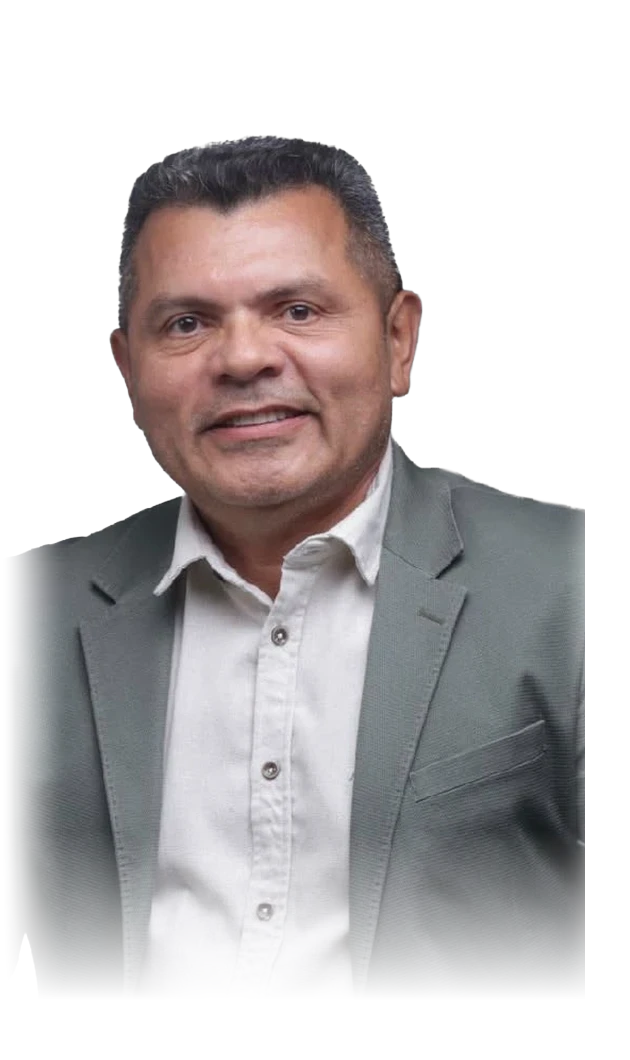
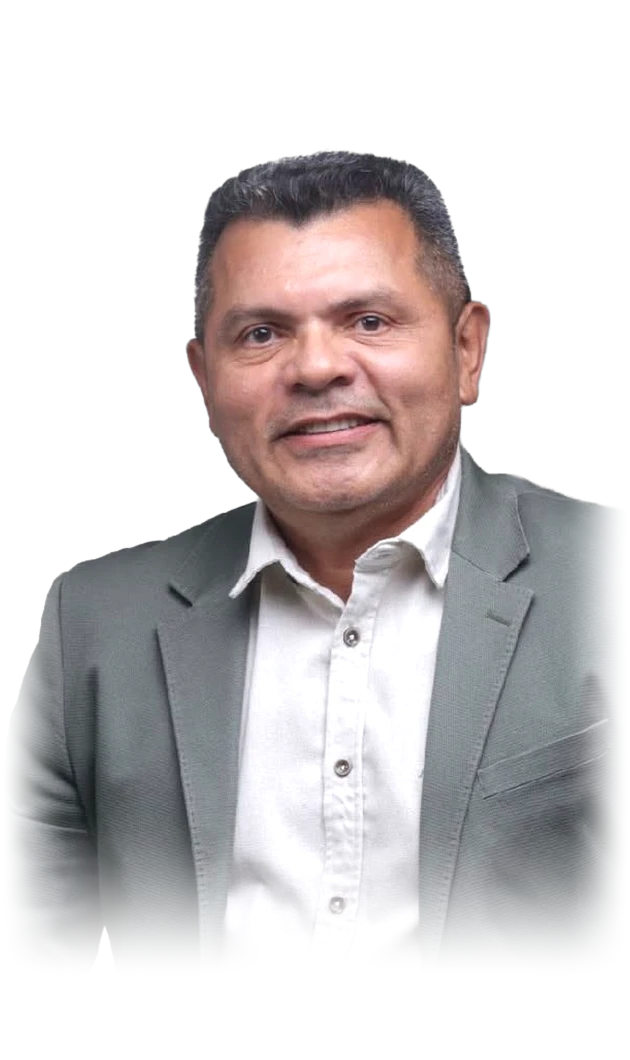
Legislativo em Foco: 3 fotos normalizadas (olhos na mesma linha, mesmo tamanho de cabeça, mesma base e brilho)
Claude-Session: https://claude.ai/code/session_01KiaatM9QFDA4eAkTbwp9BY

diff --git a/legislativo-em-foco/index.html b/legislativo-em-foco/index.html
@@ -114,7 +114,7 @@
 <body><div class="grao" aria-hidden="true"></div>
 <header class="topo"><div class="wrap"><a class="marca" href="/" aria-label="Curso de Processo Legislativo, início"><img src="/assets/simbolo.svg" alt="" width="46" height="46"><span><b>Processo <span class="it">Legislativo</span></b><small>Curso · Câmara municipal</small></span></a><nav aria-label="Seções"><a href="#programacao">Programação</a><a href="#palestrantes">Palestrantes</a><a href="#investimento">Investimento</a><a href="#duvidas">Dúvidas</a></nav><a class="btn btn-cr" href="#investimento">Inscrever-me</a></div></header>
 <main>
-<section class="ev-hero" aria-labelledby="h1"><div class="trio" aria-hidden="true"><img src="/assets/rafael.webp" alt=""><img src="/assets/tiago.webp" alt=""><img src="/assets/jorge.webp" alt=""></div><div class="wrap" style="position:relative">
+<section class="ev-hero" aria-labelledby="h1"><div class="trio" aria-hidden="true"><img src="/assets/rafael.webp?v=2" alt=""><img src="/assets/tiago.webp?v=2" alt=""><img src="/assets/jorge.webp?v=2" alt=""></div><div class="wrap" style="position:relative">
  <div class="rot rev">1º Encontro Estadual de Gestão, Controle e Atuação Parlamentar</div>
  <h1 id="h1" class="t rev">Legislativo <span class="it">em foco.</span></h1>
  <p class="ev-sub rev">Conhecimento prático para fortalecer o Legislativo Municipal. <b>On-line e ao vivo, das 18h30 às 21h30.</b></p>
@@ -145,9 +145,9 @@
  <div class="rot rev">Palestrantes</div>
  <h2 class="t rev" style="font-size:clamp(34px,4.4vw,60px)">Quem ensina atua no <span class="it">controle e no plenário.</span></h2>
  <div class="pal-g">
-  <article class="pal rev"><div class="ft"><img src="/assets/rafael.webp" alt="Rafael Veras" width="630" height="1060"></div><h3>Rafael Veras</h3><p>Advogado, especialista em Direito Público, Processo Legislativo e Direito Parlamentar e Direito Eleitoral, e mestrando pela UNIMAR. Presidente da Comissão de Direito Parlamentar e Processo Legislativo da OAB/MA. Atua há mais de 14 anos na assessoria jurídica de prefeituras, câmaras, deputados e vereadores.</p></article>
-  <article class="pal rev"><div class="ft"><img src="/assets/tiago.webp" alt="Thiago Azevedo" width="630" height="1060"></div><h3>Thiago Azevedo</h3><p>Advogado e administrador. Vice-presidente da Comissão de Direito Parlamentar e Processo Legislativo da OAB/MA. Foi Secretário Municipal de Desenvolvimento Social de Paço do Lumiar e assessor parlamentar na Assembleia Legislativa do Maranhão.</p></article>
-  <article class="pal rev"><div class="ft"><img src="/assets/jorge.webp" alt="Jorge Lobo" width="630" height="1060"></div><h3>Jorge Lobo</h3><p>Jorge Lobo é Auditor de Controle Externo do TCEMA, é membro do Grupo de Trabalho Nacional de Controle Externo da Reforma Tributária (GT-IBS), Mestre em Direito e Doutorando em Direito pela Universidade de Marília/SP, é autor do Livro Análise Econômica dos Crimes em Licitações; autor de diversos artigos em revistas especializadas notadamente em Direito Ambiental, Direito Administrativo, Direito Tributário.</p></article>
+  <article class="pal rev"><div class="ft"><img src="/assets/rafael.webp?v=2" alt="Rafael Veras" width="630" height="1060"></div><h3>Rafael Veras</h3><p>Advogado, especialista em Direito Público, Processo Legislativo e Direito Parlamentar e Direito Eleitoral, e mestrando pela UNIMAR. Presidente da Comissão de Direito Parlamentar e Processo Legislativo da OAB/MA. Atua há mais de 14 anos na assessoria jurídica de prefeituras, câmaras, deputados e vereadores.</p></article>
+  <article class="pal rev"><div class="ft"><img src="/assets/tiago.webp?v=2" alt="Thiago Azevedo" width="630" height="1060"></div><h3>Thiago Azevedo</h3><p>Advogado e administrador. Vice-presidente da Comissão de Direito Parlamentar e Processo Legislativo da OAB/MA. Foi Secretário Municipal de Desenvolvimento Social de Paço do Lumiar e assessor parlamentar na Assembleia Legislativa do Maranhão.</p></article>
+  <article class="pal rev"><div class="ft"><img src="/assets/jorge.webp?v=2" alt="Jorge Lobo" width="630" height="1060"></div><h3>Jorge Lobo</h3><p>Jorge Lobo é Auditor de Controle Externo do TCEMA, é membro do Grupo de Trabalho Nacional de Controle Externo da Reforma Tributária (GT-IBS), Mestre em Direito e Doutorando em Direito pela Universidade de Marília/SP, é autor do Livro Análise Econômica dos Crimes em Licitações; autor de diversos artigos em revistas especializadas notadamente em Direito Ambiental, Direito Administrativo, Direito Tributário.</p></article>
  </div>
  <div class="pal-bios">
   <details><summary>Rafael Veras</summary><p>Advogado, especialista em Direito Público, Processo Legislativo e Direito Parlamentar e Direito Eleitoral, e mestrando pela UNIMAR. Presidente da Comissão de Direito Parlamentar e Processo Legislativo da OAB/MA. Atua há mais de 14 anos na assessoria jurídica de prefeituras, câmaras, deputados e vereadores.</p></details>
